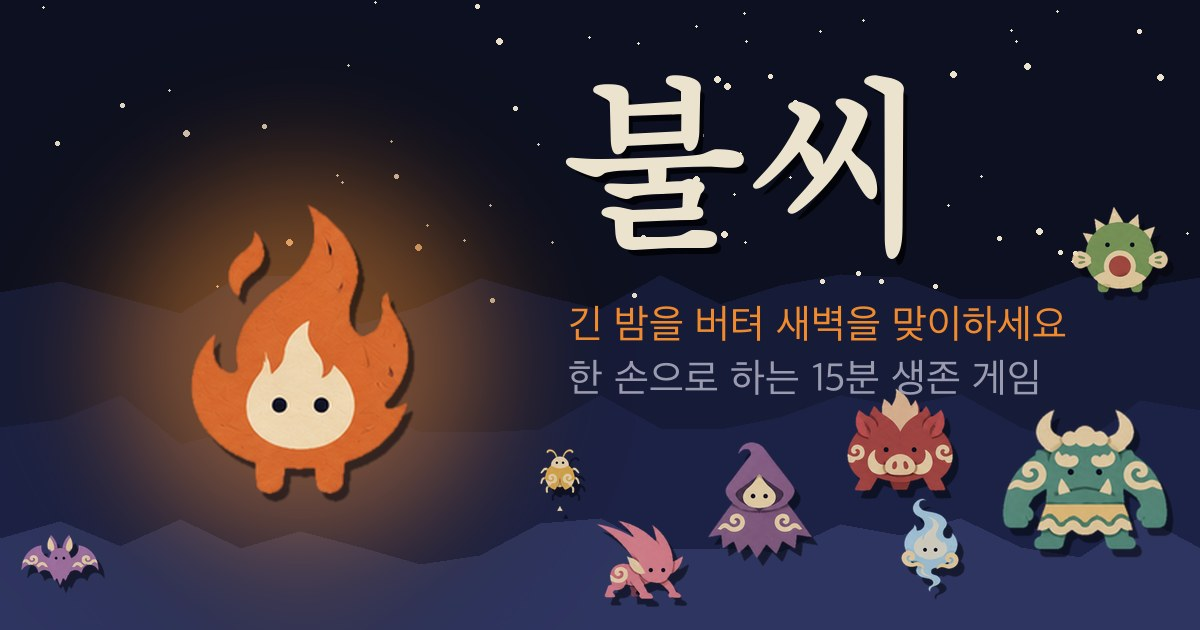
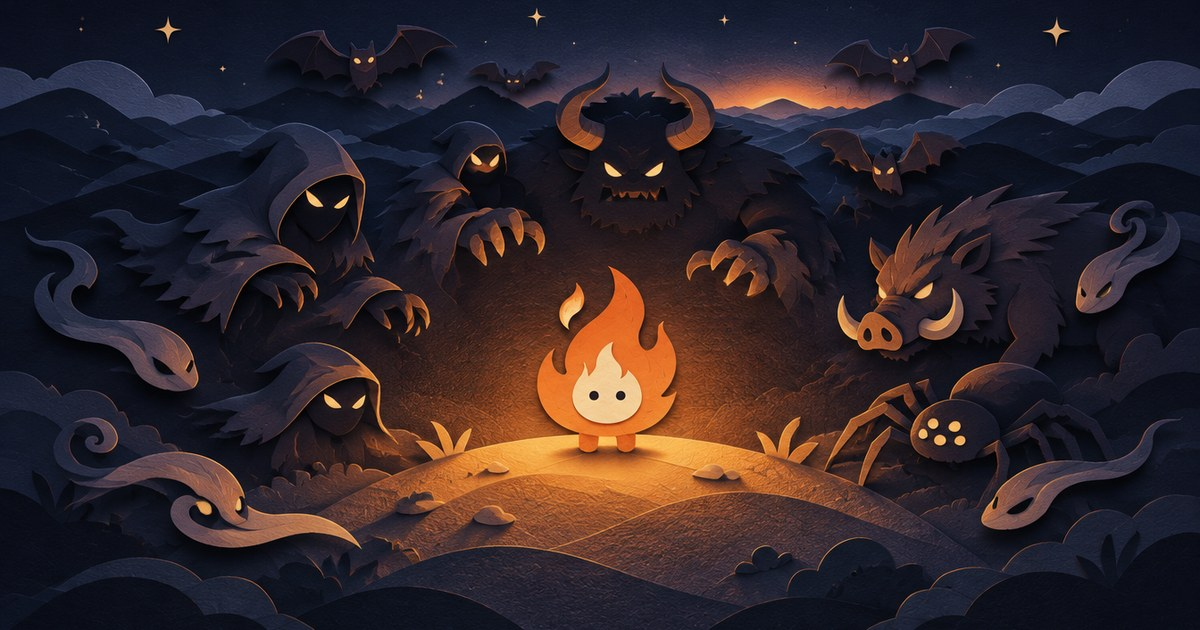
링크 미리보기 그림을 컨셉 아트로 교체

diff --git a/sw.js b/sw.js
@@ -1,5 +1,5 @@
 'use strict';
-const CACHE = 'bulssi-v13';
+const CACHE = 'bulssi-v14';
 const FONT_HOSTS = ['fonts.googleapis.com', 'fonts.gstatic.com'];
 const FILES = [
   './', 'index.html', 'manifest.webmanifest', 'js/data.js', 'js/game.js', 'js/render.js', 'js/ui.js', 'icons/icon-192.png', 'icons/icon-512.png',
